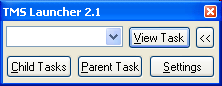
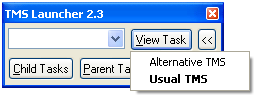
TMS_Launcher v2.3

diff --git a/Help/whats_new.html b/Help/whats_new.html
@@ -1,4 +1,4 @@
-<!-- @(#)$RCSfile: whats_new.html,v $$Revision: 1.2 $$Date: 2006/03/31 11:05:45Z $ -->
+<!-- @(#)$RCSfile: whats_new.html,v $$Revision: 1.4 $$Date: 2006/05/29 15:07:50Z $ -->
 <HTML>
 <HEAD>
   <TITLE> TMS Launcher HTML Help </TITLE>
@@ -19,10 +19,8 @@
 <H2 align="center" class="boldfont">What's new in this release?</H2>
 <H4 align="justify" class="font">
 <UL>
-  <LI>Ability to open defects directly in SoftTest application
-  <LI>Ability to display product version for child tasks when searching for them using command line interface
-  <LI>Extended command line interface with ability to filter child tasks by both name and/or product version
-  <LI>Some new commands in system tray menu
+  <LI>Context menu is added to main window buttons that allows to choose URL to open tasks/defects. Look at second picture <a href="Features\opentasks.html">here</a>
+  <LI>SoftTest and TMS passwords are encrypted before saving to Windows Registry (<font color="red">It is recommended to update to this version to prevent viewing your passwords</font>)
   <LI>Small bug fixes
   <LI>Updated HTML help
 </UL>

diff --git a/Help/Settings/urls.html b/Help/Settings/urls.html
@@ -1,4 +1,4 @@
-<!-- @(#)$RCSfile: urls.html,v $$Revision: 1.6 $$Date: 2006/03/31 11:07:12Z $ -->
+<!-- @(#)$RCSfile: urls.html,v $$Revision: 1.7 $$Date: 2006/05/29 14:28:32Z $ -->
 <HTML>
 <HEAD>
   <TITLE> TMS Launcher HTML Help </TITLE>
@@ -50,12 +50,7 @@ on ISD QA site or in SoftTest application
 </UL>
 </P>
 <P align="justify" class="font">
-<b>NOTES</b>:
-<UL class="font">
-  <LI>When you use a hotkey, a task name is read from Windows Clipboard, not from "Task Name" field.<br>
-  <LI>Both Login and Password are stored in Windows Registry in not in cipher form.
-      So, if someone has administrator privileges on your PC he can view them.
-</UL>
+<b>NOTE</b>: When you use a hotkey, a task name is read from Windows Clipboard, not from "Task Name" field.<br><br>
 </P>
   </td>
   <td valign="top" align="right">

diff --git a/Help/Settings/softtest.html b/Help/Settings/softtest.html
@@ -1,4 +1,4 @@
-<!-- @(#)$RCSfile: softtest.html,v $$Revision: 1.2 $$Date: 2006/03/31 11:10:00Z $ -->
+<!-- @(#)$RCSfile: softtest.html,v $$Revision: 1.3 $$Date: 2006/05/29 14:28:22Z $ -->
 <HTML>
 <HEAD>
   <TITLE> TMS Launcher HTML Help </TITLE>
@@ -32,9 +32,5 @@ SoftTest page allows to specify some SoftTest settings:
   <LI><b>Password</b>
       <br>User's password to enter to SoftTest application
 </UL>
-<P align="justify" class="font">
-<b>NOTE</b>: Both Login and Password are stored in Windows Registry in not in cipher form.
-So, if someone has administrator privileges on your PC he can view them.
-</P>
 </BODY>
 </HTML>

diff --git a/Help/Features/opentasks.html b/Help/Features/opentasks.html
@@ -1,4 +1,4 @@
-<!-- @(#)$RCSfile: opentasks.html,v $$Revision: 1.8 $$Date: 2006/03/31 11:06:29Z $ -->
+<!-- @(#)$RCSfile: opentasks.html,v $$Revision: 1.9 $$Date: 2006/05/29 14:59:36Z $ -->
 <HTML>
 <HEAD>
   <TITLE> TMS Launcher HTML Help </TITLE>
@@ -31,6 +31,7 @@
 TMS Launcher allows to open TMS tasks in several ways:
 <UL class="font">
 <LI>by entering task name in main window and clicking the button
+<LI>by using context menu of main window buttons
 <LI>by clicking the right mouse button in the field of main window
 <LI>by selecting systray menu item
 <LI>by pressing predefined hotkey

diff --git a/settings.cpp b/settings.cpp
@@ -11,7 +11,7 @@
 #include "About.h"
 
 #ifndef NO_VERID
- static char verid[]="@(#)$RCSfile: settings.cpp,v $$Revision: 1.29 $$Date: 2006/03/30 14:33:10Z $"; 
+ static char verid[]="@(#)$RCSfile: settings.cpp,v $$Revision: 1.30 $$Date: 2006/05/29 14:15:16Z $"; 
 #endif
 
 extern CString szWinName;
@@ -24,7 +24,7 @@ bool GetVersionInfo(CString &string, WORD Language, WORD CodePage,
 
 CSettings::CSettings(const char* RegKey, const char* AutoRunRegKey, const char* AutoRunValName, 
                      const char* DefectsSubKeyName, const char* FormatSubKeyName,
-                     const char* LinksSubKeyName, const char* SoftTestSubKeyName):Reg(HKEY_CURRENT_USER)
+                     const char* LinksSubKeyName, const char* SoftTestSubKeyName):Reg(HKEY_CURRENT_USER),x(138)
 {
     AutoRun = false;
     Expand = false;
@@ -232,6 +232,17 @@ void CSettings::LoadSettings()
         {
             Password = "";
         }
+        else // password is not empty
+        {
+            // determining if it is necessary to decrypt the password
+            CString Encrypted = "";
+            if (Reg.ReadValue(RegistryKey+"\\"+LinksSubKey+"\\"+SubKeyName,"Encrypted",
+                REG_SZ,(LPBYTE)Encrypted.GetBuffer(1),1))
+            {
+                Crypt(Password);
+            }
+            Encrypted.ReleaseBuffer();
+        }
 
         DWordSize=sizeof(DWORD);
         Reg.ReadValue(RegistryKey+"\\"+LinksSubKey+"\\"+SubKeyName,"Default",
@@ -381,7 +392,18 @@ void CSettings::LoadSettings()
     temp = "";
     Reg.ReadValue(RegistryKey+"\\"+SoftTestSubKey,"SoftTestPassword",REG_SZ,(LPBYTE)temp.GetBuffer(1025),1025);
     temp.ReleaseBuffer();
-    if (!temp.IsEmpty() || SoftTestLogin.Compare("guest")==0) SoftTestPassword = temp;
+    if (!temp.IsEmpty() || SoftTestLogin.Compare("guest")==0)
+    {
+        SoftTestPassword = temp;
+        // determining if it is necessary to decrypt the password
+        CString Encrypted = "";
+        if (Reg.ReadValue(RegistryKey+"\\"+SoftTestSubKey,"Encrypted",
+            REG_SZ,(LPBYTE)Encrypted.GetBuffer(1),1))
+        {
+            Crypt(SoftTestPassword);
+        }
+        Encrypted.ReleaseBuffer();
+    }
 
     // reading format settings
     DWordSize=sizeof(DWORD); // will be changed by ReadValue()
@@ -481,7 +503,10 @@ void CSettings::SaveLinksSettings()
         def = links[i].DefectsInSoftTest ? 1:0;
         Reg.AddValue(RegistryKey+"\\"+LinksSubKey+"\\"+links[i].Caption,"DefectsInSoftTest",REG_DWORD,(const BYTE*)&def,sizeof(DWORD));
         Reg.AddValue(RegistryKey+"\\"+LinksSubKey+"\\"+links[i].Caption,"Login",REG_SZ,(const BYTE*)LPCTSTR(links[i].Login),links[i].Login.GetLength()+1);
-        Reg.AddValue(RegistryKey+"\\"+LinksSubKey+"\\"+links[i].Caption,"Password",REG_SZ,(const BYTE*)LPCTSTR(links[i].Password),links[i].Password.GetLength()+1);
+        CString Encrypted = links[i].Password;
+        Crypt(Encrypted);
+        Reg.AddValue(RegistryKey+"\\"+LinksSubKey+"\\"+links[i].Caption,"Password",REG_SZ,(const BYTE*)LPCTSTR(Encrypted),Encrypted.GetLength()+1);
+        Reg.AddValue(RegistryKey+"\\"+LinksSubKey+"\\"+links[i].Caption,"Encrypted",REG_SZ,(const BYTE*)LPCTSTR(""),0);
     }
 }
 
@@ -498,9 +523,12 @@ void CSettings::SaveFormatSettings()
 void CSettings::SaveSoftTestSettings()
 {
     Reg.AddValue(RegistryKey+"\\"+SoftTestSubKey,"SoftTestPath",REG_SZ,(const BYTE*)LPCTSTR(SoftTestPath),SoftTestPath.GetLength()+1);
-    Reg.AddValue(RegistryKey+"\\"+SoftTestSubKey,"SoftTestLogin",REG_SZ,(const BYTE*)LPCTSTR(SoftTestLogin),SoftTestLogin.GetLength()+1);
-    Reg.AddValue(RegistryKey+"\\"+SoftTestSubKey,"SoftTestPassword",REG_SZ,(const BYTE*)LPCTSTR(SoftTestPassword),SoftTestPassword.GetLength()+1);
     Reg.AddValue(RegistryKey+"\\"+SoftTestSubKey,"SoftTestFilter",REG_SZ,(const BYTE*)LPCTSTR(SoftTestFilterName),SoftTestFilterName.GetLength()+1);
+    Reg.AddValue(RegistryKey+"\\"+SoftTestSubKey,"SoftTestLogin",REG_SZ,(const BYTE*)LPCTSTR(SoftTestLogin),SoftTestLogin.GetLength()+1);
+    CString Encrypted = SoftTestPassword;
+    Crypt(Encrypted);
+    Reg.AddValue(RegistryKey+"\\"+SoftTestSubKey,"SoftTestPassword",REG_SZ,(const BYTE*)LPCTSTR(Encrypted),Encrypted.GetLength()+1);
+    Reg.AddValue(RegistryKey+"\\"+SoftTestSubKey,"Encrypted",REG_SZ,(const BYTE*)LPCTSTR(""),0);
 }
 
 void CSettings::SaveDefectsSettings()
@@ -731,4 +759,13 @@ bool CSettings::CorrectCRLF(CString &sSeparators, CString &sTasksSeparators)
         correction = true;
     }
     return correction;
+}
+
+void CSettings::Crypt(CString &String)
+{
+    if (String.IsEmpty()) return;
+    for (int i = 0; i < String.GetLength(); i++)
+    {
+        String.SetAt(i,String.GetAt(i)^(i+x));
+    }
 }

diff --git a/maindlg.cpp b/maindlg.cpp
@@ -9,7 +9,7 @@
 #include "stdafx.h"
 
 #ifndef NO_VERID
- static char verid[]="@(#)$RCSfile: maindlg.cpp,v $$Revision: 1.47 $$Date: 2006/03/21 14:55:57Z $"; 
+ static char verid[]="@(#)$RCSfile: maindlg.cpp,v $$Revision: 1.48 $$Date: 2006/05/04 14:53:44Z $"; 
 #endif
 
 #include <fstream.h>
@@ -256,6 +256,7 @@ void CMainDlg::OnClose(UINT wNotifyCode, INT wID, HWND hWndCtl)
     Settings.SaveGeneralSettings();
 
     DeleteSysTrayIcon(m_hWnd);
+    DestroyMenu(ContextMenu);
     DestroyMenu(ClipboardSubMenu);
     DestroyMenu(SettingsSubMenu);
     DestroyMenu(SystrayMenu);
@@ -389,7 +390,7 @@ void CMainDlg::OnViewTask(UINT wNotifyCode, INT wID, HWND hWndCtl)
     if (busy) return;
 
     // called after VIEW_TASK, VIEW_CHILD_TASKS or VIEW_PARENT_TASK button was pressed
-    if ((wID == VIEW_TASK)||(wID == VIEW_CHILD_TASKS)||(wID == VIEW_PARENT_TASK))
+    if ((wID == VIEW_TASK)||(wID == VIEW_CHILD_TASKS)||(wID == VIEW_PARENT_TASK)||(wNotifyCode==1))
     {
         if (!GetTaskNameFromRichEdit(sTasks))
         {
@@ -978,6 +979,55 @@ void CMainDlg::OnContextMenu(HWND hwndFrom, CPoint CursorPos)
                     OnViewTask(0,VIEW_PARENT_TASK_HOTKEY,0);
                     break;
             }
+        }
+        else  // processing context menus for main window buttons
+        {
+            CMenu ButtonMenu;
+            ButtonMenu = CreatePopupMenu();
+            for (int i=0; i < Settings.links.size(); i++)
+            {
+                ButtonMenu.AppendMenu(MF_ENABLED,i+1,Settings.links[i].Caption);
+                if (Settings.links[i].Default)
+                {
+                    ButtonMenu.SetMenuDefaultItem(i+1);
+                }
+            }
+            CButton Button = hwndFrom;
+            RECT Rect;
+            Button.GetWindowRect(&Rect);
+            UINT Command = 0;
+
+            if (hwndFrom == GetDlgItem(VIEW_TASK))
+            {
+                Command = TrackPopupMenuEx(ButtonMenu,TPM_RETURNCMD|TPM_LEFTBUTTON|TPM_LEFTALIGN|TPM_TOPALIGN,Rect.left,Rect.bottom,m_hWnd,NULL);
+                if (Command != 0)
+                {
+                    OnViewTask(1,(Command-1)*3,0);
+                }
+            }
+            else
+            {
+                if (hwndFrom == GetDlgItem(VIEW_CHILD_TASKS))
+                {
+                    Command = TrackPopupMenuEx(ButtonMenu,TPM_RETURNCMD|TPM_LEFTBUTTON|TPM_LEFTALIGN|TPM_TOPALIGN,Rect.left,Rect.bottom,m_hWnd,NULL);
+                    if (Command != 0)
+                    {
+                        OnViewTask(1,(Command-1)*3+1,0);
+                    }
+                }
+                else
+                {
+                    if (hwndFrom == GetDlgItem(VIEW_PARENT_TASK))
+                    {
+                        Command = TrackPopupMenuEx(ButtonMenu,TPM_RETURNCMD|TPM_LEFTBUTTON|TPM_LEFTALIGN|TPM_TOPALIGN,Rect.left,Rect.bottom,m_hWnd,NULL);
+                        if (Command != 0)
+                        {
+                            OnViewTask(1,(Command-1)*3+2,0);
+                        }
+                    }
+                }
+            }
+            DestroyMenu(ButtonMenu);
         }
     }
 }

diff --git a/settings.h b/settings.h
@@ -10,7 +10,7 @@
 #define SETTINGS_H_INCLUDED
 
 #ifdef INCLUDE_VERID
- static char settings_h[]="@(#)$RCSfile: settings.h,v $$Revision: 1.21 $$Date: 2006/03/30 14:33:17Z $";
+ static char settings_h[]="@(#)$RCSfile: settings.h,v $$Revision: 1.22 $$Date: 2006/05/29 14:15:32Z $";
 #endif
 
 #include "resource.h"
@@ -145,6 +145,7 @@ public:
     bool IsDefect(const char *Client, CString *Project, int *index);
     bool OpenDefectsInSoftTest(INT wID);
 protected:
+    BYTE x;
     Registry Reg;
     CString RegistryKey;
     CString DefectsSubKey;
@@ -154,6 +155,7 @@ protected:
     CString AutoRunRegistryKey;
     CString AutoRunValueName;
     CString SoftTestCommandLine; // command line that used to launch SoftTest
+    void Crypt(CString &String);
 };
 
 #endif

diff --git a/Options.h b/Options.h
@@ -812,6 +812,7 @@ public:
                 }
                 temp_links[realpos] = URLEditDlg.URL;
             }
+            sort_links();
         }
     }
 
@@ -868,7 +869,6 @@ public:
 
     void OnOK()
     {
-        sort_links();
         URLsList.ResetContent();
         DefaultURL.ResetContent();
         Settings.links.clear();
